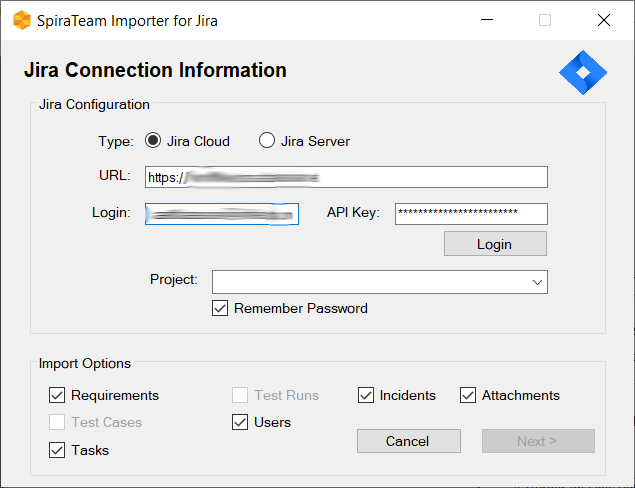
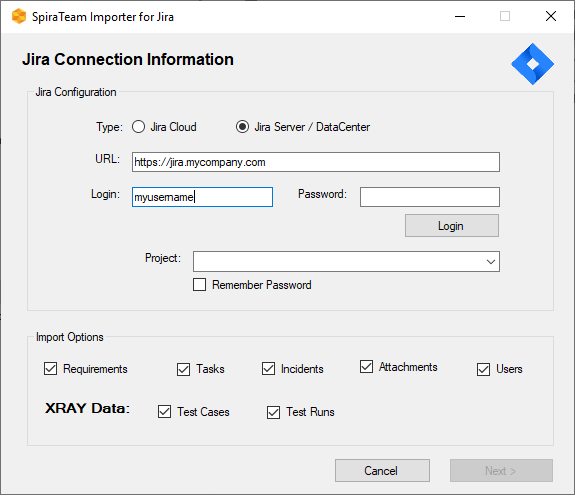
added XRAY info to Jira docs

diff --git a/docs/Migration-and-Integration/Migrating-from-Jira.md b/docs/Migration-and-Integration/Migrating-from-Jira.md
@@ -1,6 +1,9 @@
 #  Migrating from Atlassian Jira
 
-This guide explains how to use Inflectra's "Jira Migration Tool" for importing projects, versions, requirements, issues, tasks and associated attachments from Atlassian Jira to SpiraTeam. This tool works with Jira Cloud, Server and Data Center editions.
+This guide explains how to use Inflectra's "Jira Migration Tool" for importing projects, versions, requirements, issues, tasks and associated attachments from Atlassian Jira to SpiraTeam. This tool works with **Jira Cloud**, **Jira Server** and **Jira Data Center** editions.
+
+This migration tool also includes options from migrating data from Jira
+plugins such as **XRAY for test management**.
 
 !!! info "Advanced Migration"
     If the functions of this migration tool are not sufficient for your needs, please consider using our "[Advanced Jira to Spira Migration Tool](https://github.com/Inflectra/spira-jira-migration-advanced)". This is an open source tool specifically for migration from Jira Server/DataCenter. It is developed by Inflectra's partner Tietoevry.
@@ -10,7 +13,7 @@ This guide explains how to use Inflectra's "Jira Migration Tool" for importing p
 This guide outlines how to install the migration tool for Jira onto a workstation so that you can then migrate whole projects from Jira to either SpiraTeam or SpiraPlan (hereafter referred to as SpiraTeam). It assumes that you already have a working installation of SpiraTeam v6.0 or later and a working version of Jira Cloud, Server or Data Center. 
 
 !!! warning "Minimum Version of Spira"
-    **You must be on at least SpiraTeam 6.13 to use this tool**. If you have an earlier version of SpiraTeam you will need to upgrade to at least v6.13 before trying to migrate projects.
+    **You must be on at least SpiraTeam 8.0 to use this tool**. If you have an earlier version of SpiraTeam you will need to upgrade to at least v8.0 before trying to migrate projects.
 
 The Windows installation package can be downloaded from the 'Add-Ons & Downloads" section of the Inflectra website. Once you have obtained the Windows Installer package, simply double-click on the package to begin the installation wizard which should display the following welcome page:
 
@@ -36,7 +39,24 @@ Once you have entered this information, click the **Login** button and the list 
 
 ![](img/jira-importer-4.png)
 
-Select the Jira project that you want to ***import from***, choose which artifacts (requirements, tasks incidents, users, attachments, etc.) you want to import, then click the **Next** button to move to the next page in the import wizard.
+Select the Jira project that you want to ***import from***, choose which artifacts you want to import.
+The importer currently supports the following:
+
+- **Jira issue types**
+    - Requirements
+    - Tasks
+    - Incidents
+- **Other Jira artifacts**
+    - Attachments
+    - Components
+    - Versions
+    - Users
+- **XRAY test objects**
+    - Test Cases
+    - Test Runs
+
+
+Once you have confirmed the artifacts, click the **Next** button to move to the next page in the import wizard.
 
 ### Connecting to SpiraTeam
 
@@ -59,6 +79,9 @@ On this page you will map the different SpiraTeam artifacts to the different iss
 - **Requirements** (used for user stories, features, epics, etc.)
 - **Tasks** (used for tasks and sub-tasks)
 - **Incidents** (used for all other issue types such as bugs, defects, issues)
+- **Test Case** (used for XRAY test cases and pre-conditions)
+- **Test Set** (used for XRAY test plans)
+- **Test Run** (used for XRAY test executions)
 
 Once you have mapped the artfiacts, click the **Start Import** button to actually begin the process of importing the various artifacts from Jira into SpiraTeam.
 
@@ -74,7 +97,7 @@ During the import process, as each of the types of artifact are imported, the pr
 
 ## What is Imported?
 
-The migration tool will import the following artifacts:
+The migration tool will import the following Jira artifacts:
 
 - Product Definition together with components, priorities, types and statuses
 - Custom Properties and Custom Lists
@@ -84,6 +107,13 @@ The migration tool will import the following artifacts:
 - Tasks
 - Incidents, together with their associated lists of priorities and statuses
 - Any attachments associated with the requirements, tasks and incidents
+
+The migration tool will import the following XRAY artifacts:
+
+- Test case repositories
+- Test steps
+- Test sets and test plans
+- Test executions
 
 ### Requirements
 
@@ -114,3 +144,39 @@ Any of the Jira issue types that are mapped to incidents in SpiraTeam:
 Will be imported into SpiraTeam as types of incident:
 
 ![](img/jira-incidents-2.png)
+
+### Test Repositories
+
+The test case folders, hierarchy and names are imported, along with the IDs of the various XRAY test cases:
+
+![](img/jira-xray-importer-1.png)
+
+### Test Steps
+
+The migration tool will migrate XRAY test cases that contain standard steps with an Action, Description, Description and Sample Data:
+
+![](img/jira-xray-importer-2.png)
+
+Note that it will convert XRAY parameters from the formal used in XRAY to those in SpiraTest. It also migrates over the test parameter values from the corresponding XRAY data set.
+
+It will also correctly migrate over any test cases that contain links to other test cases as their steps (or a combination of both):
+
+![](img/jira-xray-importer-3.png)
+
+### Test Sets and Test Plans
+
+The migration tool will migrate the XRAY test sets and test plans into SpiraTest as test sets:
+
+![](img/jira-xray-importer-4.png)
+
+The test sets will be imported into a flat list in SpiraTest (that you can organize by folder, post-migration), together with the mapping to the various test cases included in the XRAY test set or test plan.
+
+### Test Executions
+
+The XRAY test executions and sub-test executions will be imported into SpiraTest together with their mapped test cases and test runs. These will be migrated into SpiraTest as a test run. The various fields and statuses are faithfully migrated.
+
+![](img/jira-xray-importer-5.png)
+
+The test run migration includes the test run step level of detail, with the appropriate XRAY test run step results imported, including the expected result, actual result and any test parameter values:
+
+![](img/jira-xray-importer-6.png)
